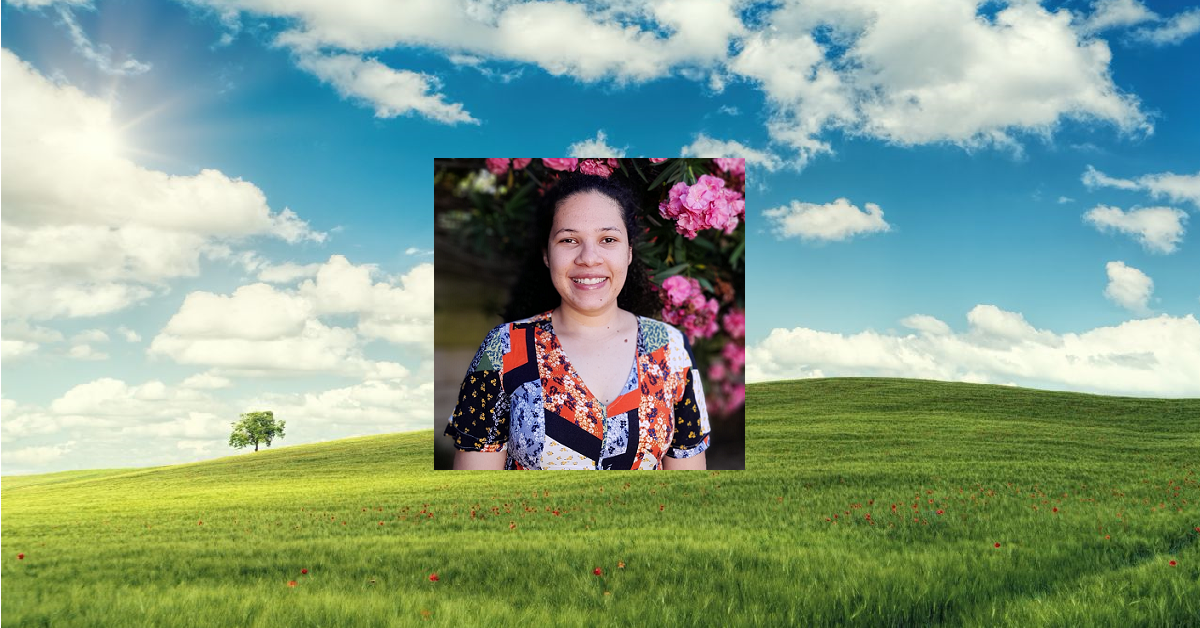
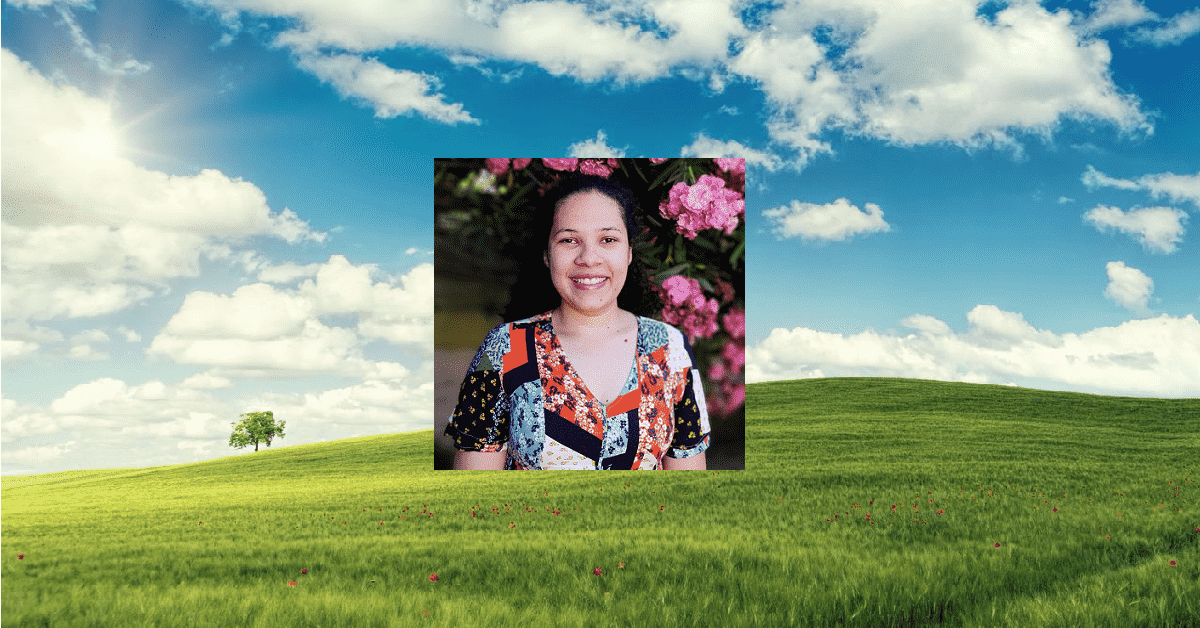
Update meta for Facebook image
Replace "og:image" with "og:image:secure" because the image url uses https

Compress the portfolio-banner.png image

diff --git a/index.html b/index.html
@@ -28,7 +28,7 @@
         <meta property="og:url" content="https://www.margaretthomas.tech/" />
         <meta property="og:title" content="Margaret Thomas" />
         <meta property="og:description" content="Full Stack Software Developer based in Cape Town, South Africa" />
-        <meta property="og:image" content="https://www.margaretthomas.tech/images/portfolio-banner.png" />
+        <meta property="og:image:secure" content="https://www.margaretthomas.tech/images/portfolio-banner.png" />
 
         <!-- Twitter -->
         <meta property="twitter:card" content="summary_large_image" />
